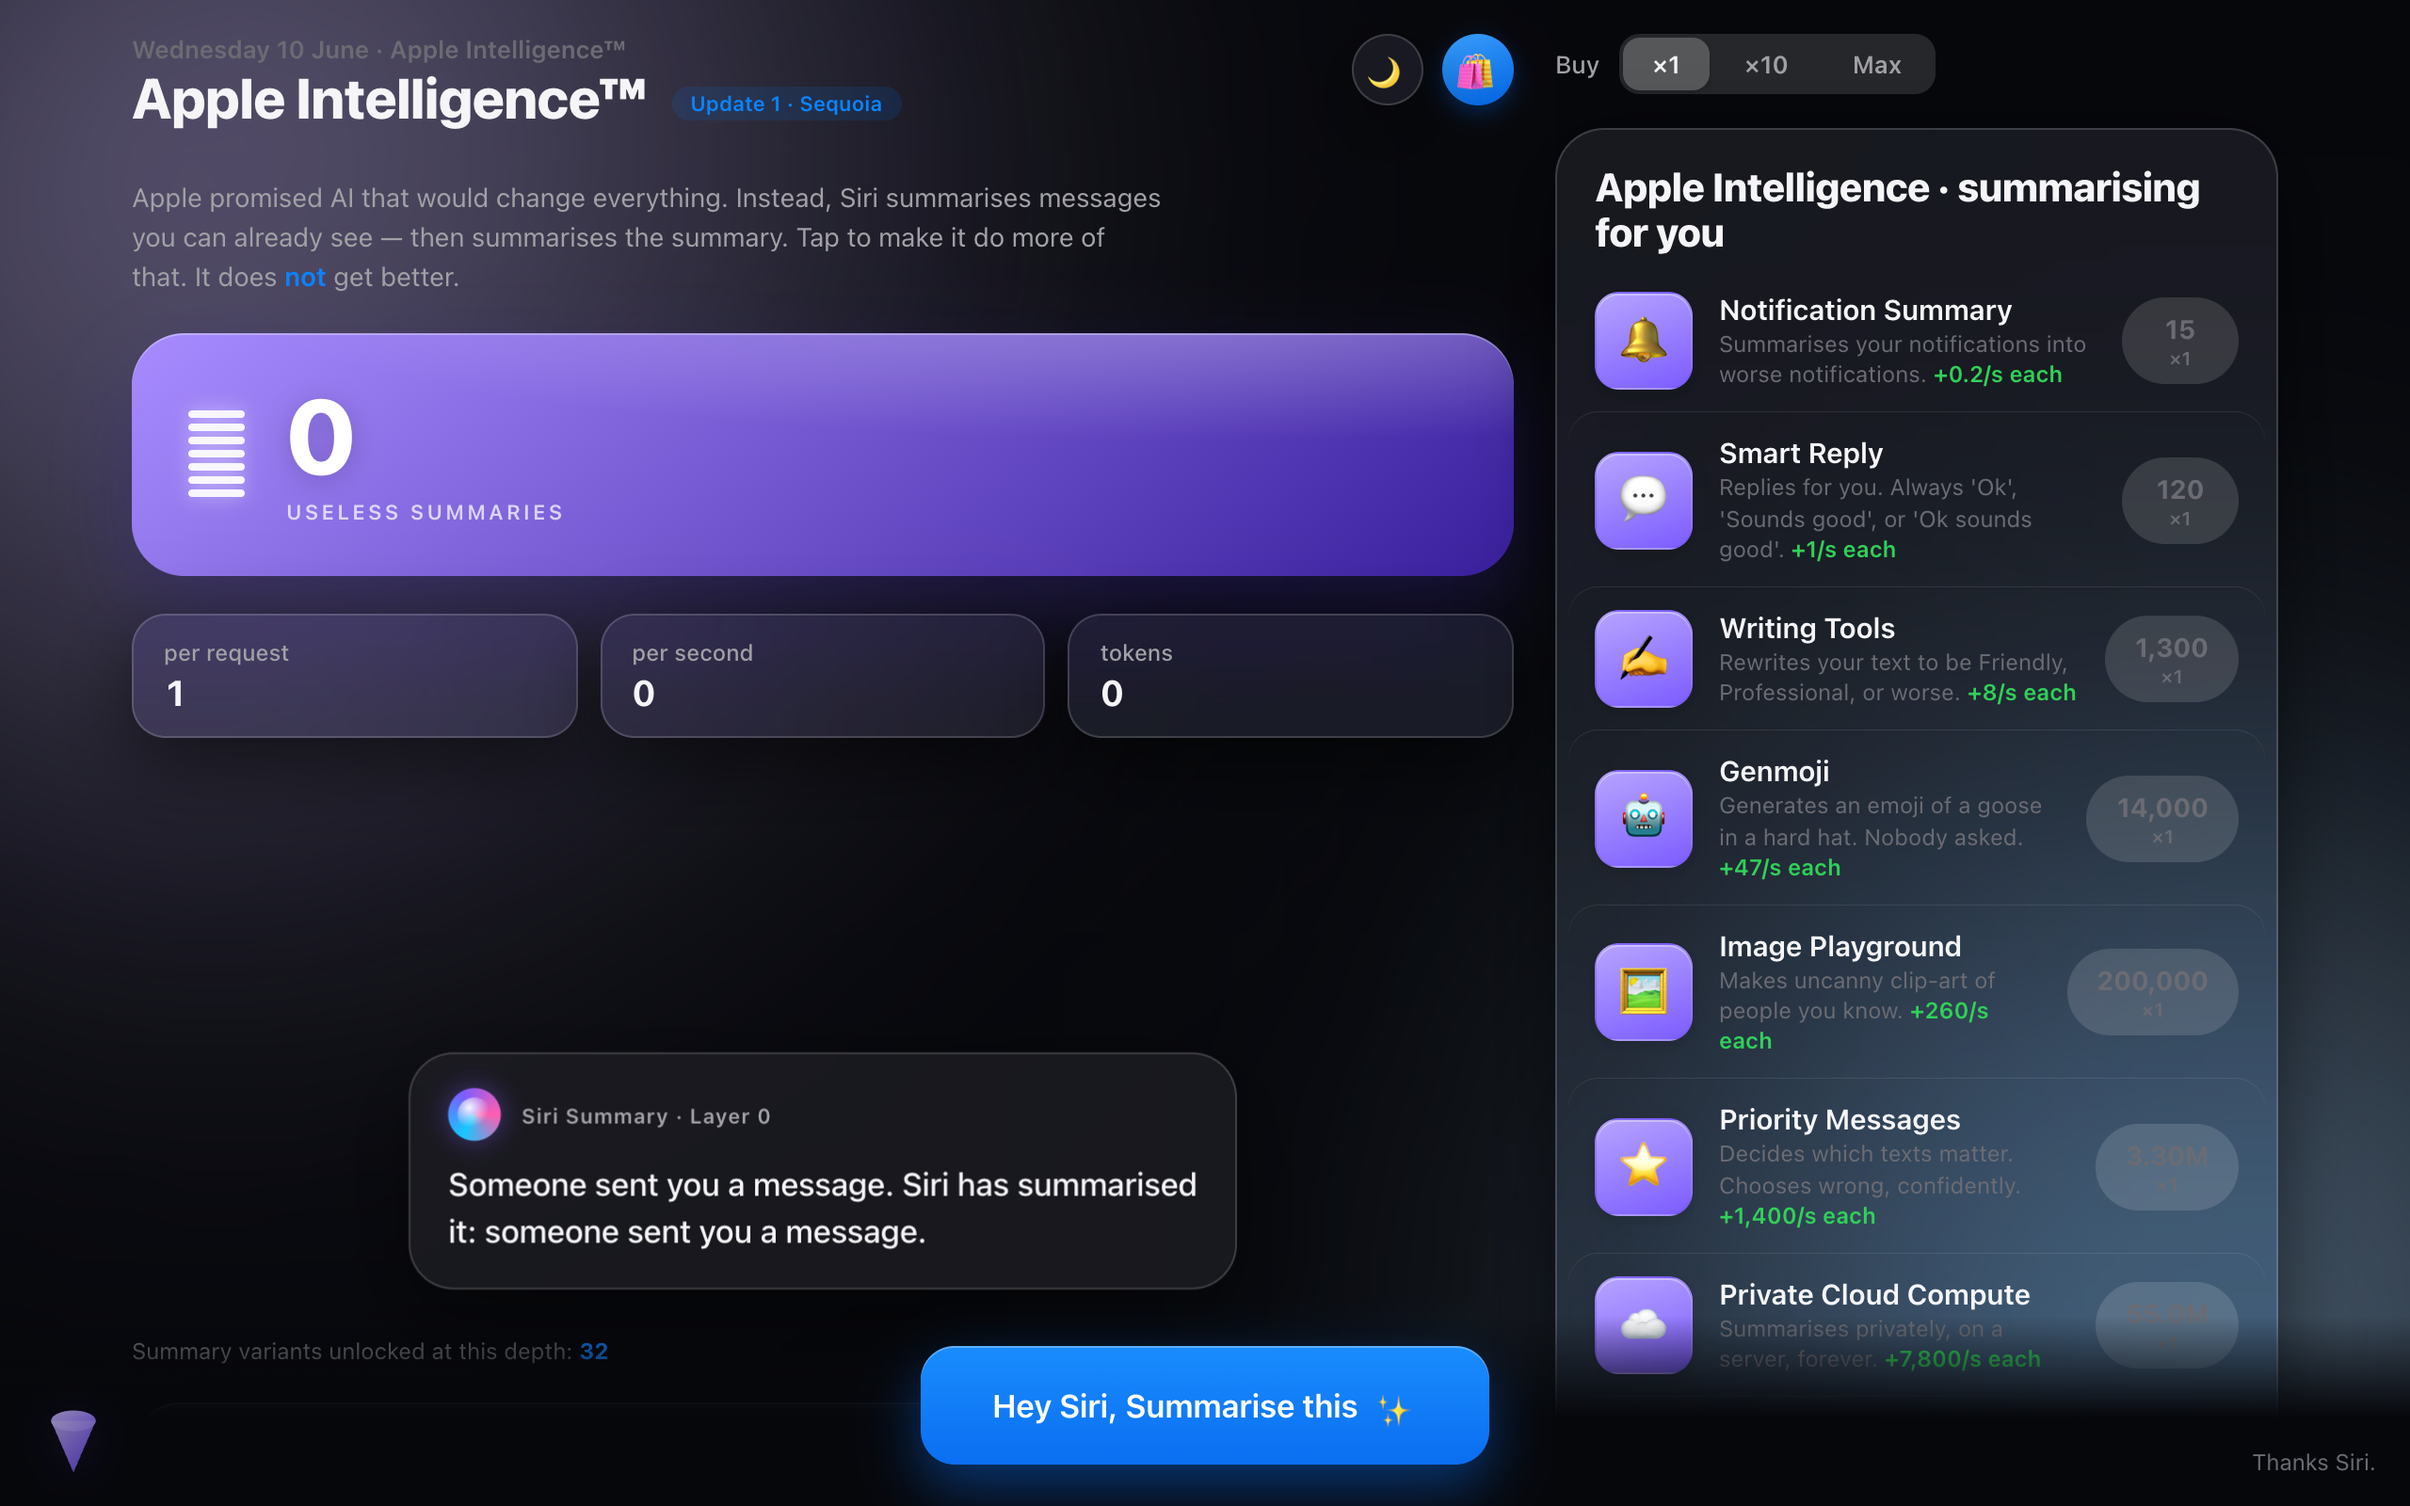
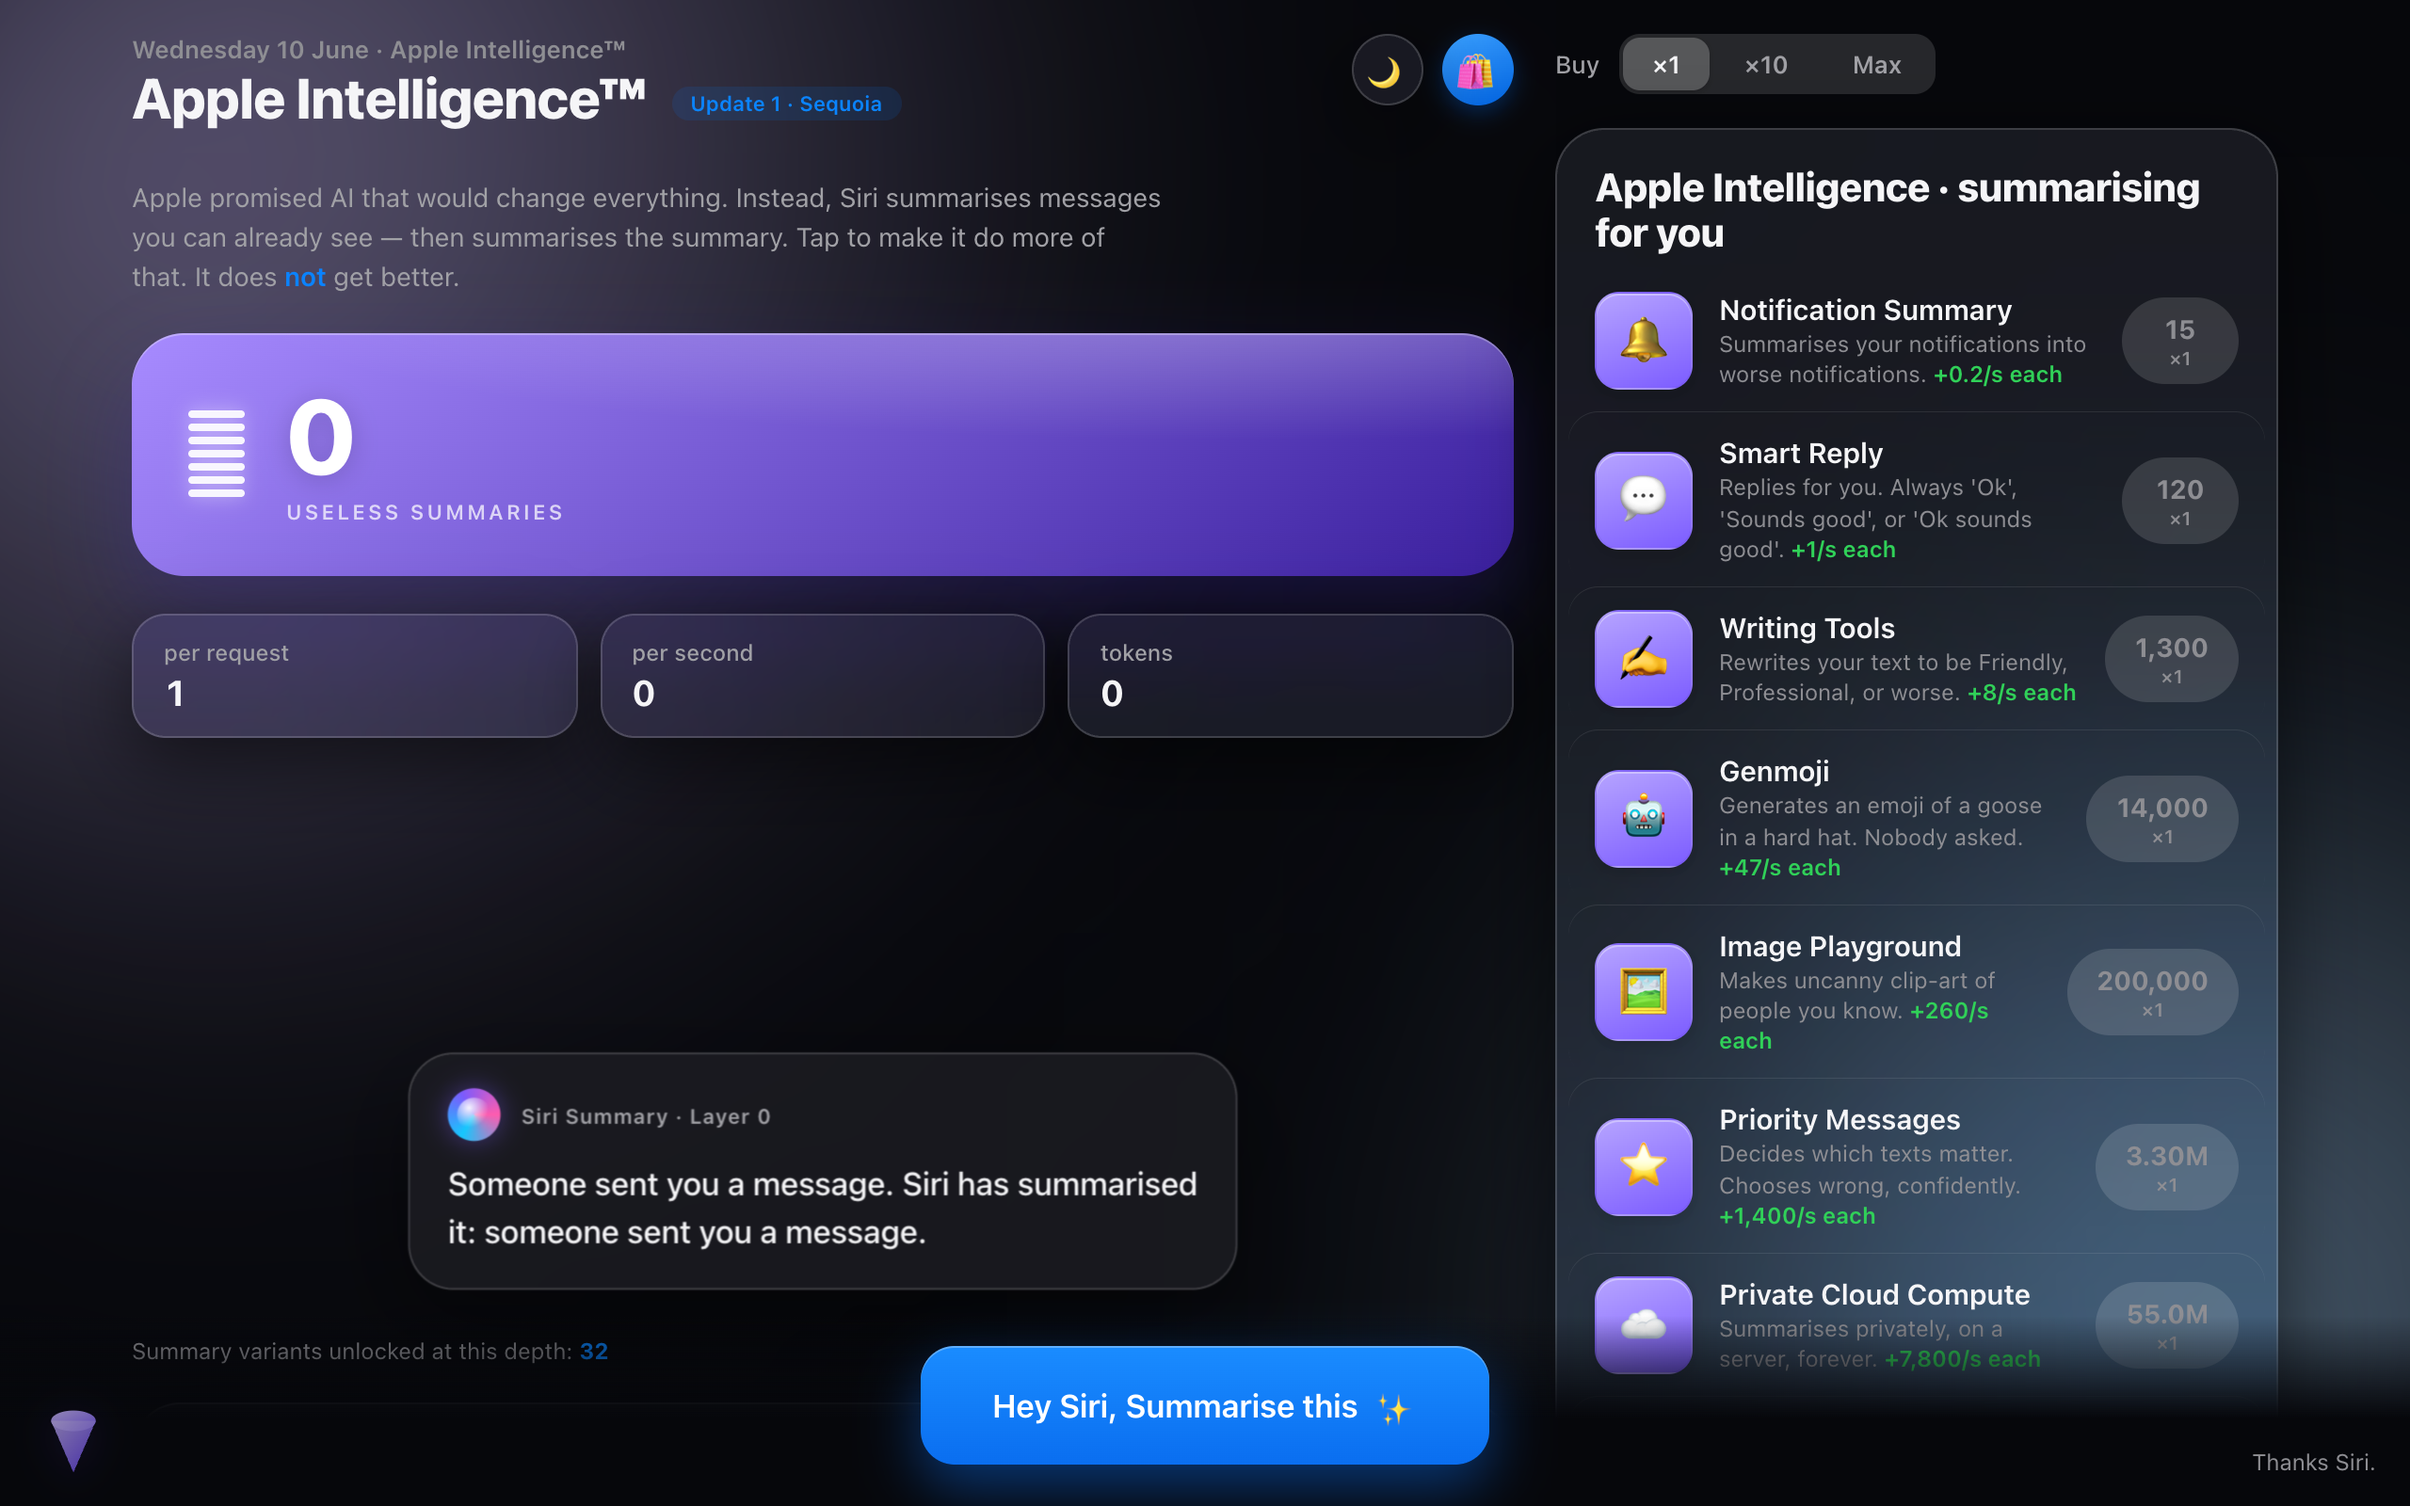
Fix upgrade-panel text contrast to meet WCAG AA
Upgrade descriptions, counts and cost sub-text used --ink-faint, which
measured 3.4:1 (dark) and 2.6:1 (light) on the glass panels — below the
4.5:1 AA threshold for normal text, hence hard to read.

- dark --ink-faint #6b6b73 → #8e8e93 (3.4:1 → 5.4:1)
- light --ink-faint #9b9ba1 → #6f6f75 (2.6:1 → 4.7:1)
- light --ink-dim #6e6e73 → #5e5e63 to preserve the dim/faint hierarchy
- regenerate itch screenshots to reflect the readable panels

diff --git a/index.html b/index.html
@@ -8,7 +8,7 @@
 <script src="vendor/decimal.min.js"></script>
 <style>
     :root{
-    --bg:#06070b; --ink:#f5f5f7; --ink-dim:#a1a1a6; --ink-faint:#6b6b73;
+    --bg:#06070b; --ink:#f5f5f7; --ink-dim:#a1a1a6; --ink-faint:#8e8e93; /* faint lifted #6b6b73→#8e8e93 for WCAG AA (3.4→5.4:1) on glass panels */
     --glass:rgba(255,255,255,.07); --glass-solid:rgba(28,28,34,.82);
     --hairline:rgba(255,255,255,.09); --highlight:rgba(255,255,255,.16);
     --pill:rgba(255,255,255,.13); --pill-hi:rgba(255,255,255,.22); --seg-on:rgba(255,255,255,.22);
@@ -16,7 +16,7 @@
     --accent:#9d80ff; --shadow:0 14px 40px rgba(0,0,0,.55);
   }
   html[data-theme="light"]{
-    --bg:#eef0f5; --ink:#1d1d1f; --ink-dim:#6e6e73; --ink-faint:#9b9ba1;
+    --bg:#eef0f5; --ink:#1d1d1f; --ink-dim:#5e5e63; --ink-faint:#6f6f75; /* dim #6e6e73→#5e5e63, faint #9b9ba1→#6f6f75 for WCAG AA (2.6→4.7:1) */
     --glass:rgba(255,255,255,.62); --glass-solid:rgba(255,255,255,.82);
     --hairline:rgba(0,0,0,.07); --highlight:rgba(255,255,255,.85);
     --pill:rgba(118,118,128,.14); --pill-hi:rgba(118,118,128,.22); --seg-on:#fff;
